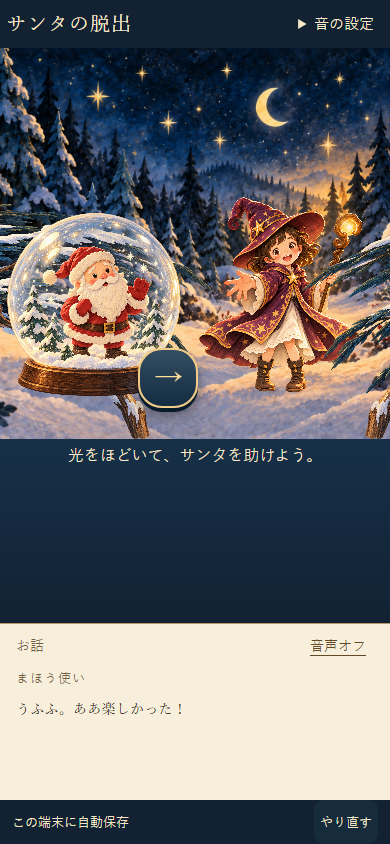
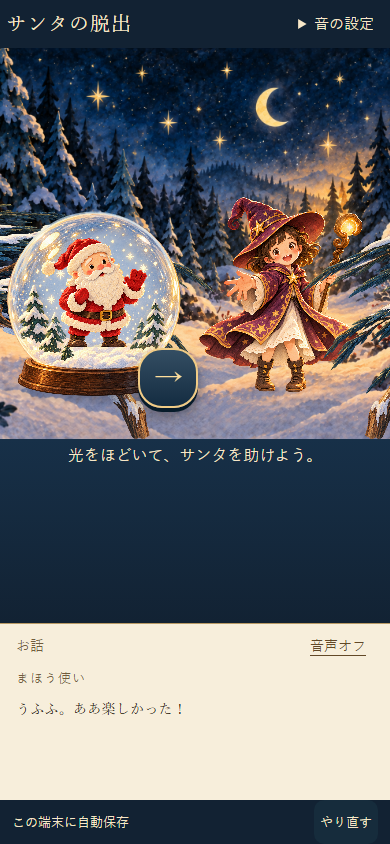
fix: reveal composed snow globe under the entry glow

Changed region(s): [[0.0, 0.2464, 0.4615, 0.4929]]

diff --git a/tests/browser/rescue-glow.spec.js b/tests/browser/rescue-glow.spec.js
@@ -7,26 +7,28 @@ import {rescueState,btn,saved,light} from './rescue-helpers.js';
 async function thirdResponse(page){
   const s=rescueState();s.phase='witchResponse';delete s.rescueMotion;s.history=s.history.filter(e=>e.phase!=='rescue');
   await setupPapers(page,s,{stage:'witch'});await expect(page.locator('canvas')).toHaveAttribute('data-ready','true');await page.waitForTimeout(470);
-  await page.evaluate(()=>{window.pulses=[];window.introStates=[];new MutationObserver(records=>{
+  await page.evaluate(()=>{window.pulses=[];window.introStates=[];window.revealStates=[];new MutationObserver(records=>{
     const stage=document.querySelector('.rescue-stage');if(stage){const intro=stage.dataset.intro,hidden=stage.querySelector('.rescue-handle').hidden;const last=window.introStates.at(-1);if(!last||last.intro!==intro||last.hidden!==hidden)window.introStates.push({intro,hidden});}
-    for(const r of records)if(r.attributeName==='data-glow-pulse'){const value=Number(r.target.dataset.glowPulse);window.pulses.push(value);if(value>.7&&!window.glowFrame)window.glowFrame=r.target.toDataURL();}
+    for(const r of records)if(r.attributeName==='data-glow-pulse'){const value=Number(r.target.dataset.glowPulse);window.pulses.push(value);if(r.target.dataset.globeSource==='edited-empty'){window.revealStates.push({pulse:value,intro:stage.dataset.intro,progress:Number(r.target.dataset.progress)});if(value>.7&&!window.glowFrame)window.glowFrame=r.target.toDataURL();}}
   }).observe(document.querySelector('#app'),{childList:true,subtree:true,attributes:true,attributeFilter:['data-glow-pulse','data-intro']});});
   await btn(page,'continue_witch').click();
 }
 async function samples(page){return page.locator('canvas').evaluate(c=>{const g=JSON.parse(c.dataset.globe),d=c.width/c.clientWidth,ctx=c.getContext('2d');return [[.13,.3],[.4,.94],[.4,.07]].map(([x,y])=>Array.from(ctx.getImageData(Math.round((g.x+g.w*x)*d),Math.round((g.y+g.h*y)*d),3,3).data));});}
 
-test('rescue glow: one bright pulse precedes the grip; edited glass/base remain during release and resume skips the introduction',async({page},testInfo)=>{
+test('rescue glow: bright pulse reveals empty globe plus Santa before the grip; zero/reverse/resume retain that composition',async({page},testInfo)=>{
   await page.setViewportSize({width:390,height:844});await thirdResponse(page);await expect.poll(()=>page.evaluate(()=>window.introStates)).toContainEqual({intro:'glowing',hidden:true});
-  await expect.poll(()=>page.evaluate(()=>Math.max(...window.pulses))).toBeGreaterThan(.7);const artifact=testInfo.outputPath('rescue-glow.png');await mkdir(dirname(artifact),{recursive:true});await writeFile(artifact,Buffer.from((await page.evaluate(()=>window.glowFrame)).split(',')[1],'base64'));
+  await expect.poll(()=>page.evaluate(()=>window.revealStates.some(x=>x.pulse>.7&&x.intro==='glowing'&&x.progress===0))).toBe(true);const artifact=testInfo.outputPath('rescue-glow.png');await mkdir(dirname(artifact),{recursive:true});await writeFile(artifact,Buffer.from((await page.evaluate(()=>window.glowFrame)).split(',')[1],'base64'));
   await expect(light(page)).toBeVisible();await expect(page.locator('.rescue-stage')).toHaveAttribute('data-intro','ready');expect(await page.evaluate(()=>window.introStates)).toEqual([{intro:'glowing',hidden:true},{intro:'ready',hidden:false}]);expect(Math.max(...await page.evaluate(()=>window.pulses))).toBeGreaterThan(.6);expect((await saved(page)).rescueMotion.progress).toBe(0);
-  await expect(page.locator('canvas')).toHaveAttribute('data-globe-source','original');await light(page).press('ArrowRight');await expect(page.locator('canvas')).toHaveAttribute('data-globe-source','edited-empty');const before=await samples(page);await page.reload();await btn(page,'resume').click();await expect(light(page)).toBeVisible();await expect(page.locator('canvas')).toHaveAttribute('data-ready','true');await expect(page.locator('.rescue-stage')).toHaveAttribute('data-intro','ready');await expect(page.locator('canvas')).toHaveAttribute('data-glow-pulse','0');await expect(page.locator('canvas')).toHaveAttribute('data-globe-source','edited-empty');
+  await expect(page.locator('canvas')).toHaveAttribute('data-globe-source','edited-empty');const resting=await page.locator('canvas').evaluate(c=>c.toDataURL());await page.screenshot({path:testInfo.outputPath('rescue-after-glow.png')});const before=await samples(page);
+  await light(page).press('ArrowRight');await expect(page.locator('canvas')).toHaveAttribute('data-globe-source','edited-empty');await light(page).press('Home');expect((await saved(page)).rescueMotion.progress).toBe(0);expect(await page.locator('canvas').evaluate(c=>c.toDataURL())).toBe(resting);
+  await page.reload();await btn(page,'resume').click();await expect(light(page)).toBeVisible();await expect(page.locator('canvas')).toHaveAttribute('data-ready','true');await expect(page.locator('.rescue-stage')).toHaveAttribute('data-intro','ready');await expect(page.locator('canvas')).toHaveAttribute('data-glow-pulse','0');await expect(page.locator('canvas')).toHaveAttribute('data-globe-source','edited-empty');expect(await page.locator('canvas').evaluate(c=>c.toDataURL())).toBe(resting);
   await light(page).press('End');await expect(page.locator('.rescue-stage')).toHaveAttribute('data-phase','complete');await expect(btn(page,'finish')).toHaveCount(0);const after=await samples(page);for(let i=0;i<before.length;i++)for(let j=0;j<before[i].length;j++)expect(Math.abs(before[i][j]-after[i][j])).toBeLessThanOrEqual(2);
 });
 test('rescue glow: reduced motion immediately reveals the grip, with no timed completion or pulse',async({page})=>{
-  await page.emulateMedia({reducedMotion:'reduce'});await thirdResponse(page);await expect(light(page)).toBeVisible();await expect(page.locator('.rescue-stage')).toHaveAttribute('data-intro','ready');expect((await page.evaluate(()=>window.pulses)).every(v=>v===0)).toBe(true);expect((await saved(page)).phase).toBe('rescue');expect((await saved(page)).rescueMotion.progress).toBe(0);
+  await page.emulateMedia({reducedMotion:'reduce'});await thirdResponse(page);await expect(light(page)).toBeVisible();await expect(page.locator('canvas')).toHaveAttribute('data-ready','true');await expect(page.locator('canvas')).toHaveAttribute('data-globe-source','edited-empty');await expect(page.locator('.rescue-stage')).toHaveAttribute('data-intro','ready');expect((await page.evaluate(()=>window.pulses)).every(v=>v===0)).toBe(true);expect((await saved(page)).phase).toBe('rescue');expect((await saved(page)).rescueMotion.progress).toBe(0);
 });
 for(const action of ['pagehide','reset'])test(`rescue glow: ${action} cancels the pulse; late artwork cannot replay it or advance the save`,async({page})=>{
   let release;const gate=new Promise(r=>release=r);await page.route('**/assets/rescue/*.png',async route=>{await gate;await route.continue();});await thirdResponse(page);await expect.poll(()=>page.locator('canvas').evaluate(c=>Number(c.dataset.glowPulse))).toBeGreaterThan(.1);
   if(action==='pagehide')await page.evaluate(()=>window.dispatchEvent(new Event('pagehide')));else{await btn(page,'reset').click();await page.locator('#confirm-reset').click();}release();await page.waitForTimeout(1000);
-  if(action==='reset'){await expect(btn(page,'start')).toBeVisible();expect((await saved(page)).phase).toBe('welcome');}else{await expect(page.locator('canvas')).toHaveAttribute('data-ready','true');await expect(page.locator('canvas')).toHaveAttribute('data-glow-pulse','0');await expect(light(page)).toBeVisible();expect((await saved(page)).rescueMotion.progress).toBe(0);}
+  if(action==='reset'){await expect(btn(page,'start')).toBeVisible();expect((await saved(page)).phase).toBe('welcome');}else{await expect(page.locator('canvas')).toHaveAttribute('data-ready','true');await expect(page.locator('canvas')).toHaveAttribute('data-globe-source','edited-empty');await expect(page.locator('canvas')).toHaveAttribute('data-glow-pulse','0');await expect(light(page)).toBeVisible();expect((await saved(page)).rescueMotion.progress).toBe(0);}
 });

diff --git a/prototype/rescue-stage.js b/prototype/rescue-stage.js
@@ -10,7 +10,7 @@ export function createRescueStage({getState,onProgress,intro=false}) {
   const listeners=new AbortController(),options={signal:listeners.signal},reduced=matchMedia('(prefers-reduced-motion: reduce)');let disposed=false,layout,drag=null,suppressUntil=0,introPending=intro&&!reduced.matches,introFrame,latest;
   const active=()=>!disposed&&!introPending&&getState().phase==='rescue'&&getState().rescueMotion?.released===false;
   const syncHandle=()=>{if(latest){handle.hidden=introPending||latest.reading||latest.view.rescueMotion?.released!==false;element.dataset.intro=introPending?'glowing':'ready';}};
-  function finishIntro(){cancelAnimationFrame(introFrame);introPending=false;art.setGlow(0);syncHandle();}
+  function finishIntro(){cancelAnimationFrame(introFrame);introPending=false;art.setGlow(0,{reveal:true});syncHandle();}
   const progress=()=>getState().rescueMotion?.progress||0;
   function set(value){if(active())onProgress(clamp(value));}
   function finish(){if(!drag)return;const old=drag;drag=null;if(old.moved)suppressUntil=performance.now()+350;if(handle.hasPointerCapture(old.id))handle.releasePointerCapture(old.id);element.classList.remove('rescue-dragging');}
@@ -31,9 +31,9 @@ export function createRescueStage({getState,onProgress,intro=false}) {
     let value;if(e.key==='ArrowLeft')value=progress()-.05;if(e.key==='ArrowRight')value=progress()+.05;if(e.key==='Home')value=0;if(e.key==='End')value=1;
     if(value!==undefined){e.preventDefault();finish();set(value);}
   },options);
-  const art=createRescueArt(find('canvas'),value=>{if(drag&&(value.width!==drag.width||value.height!==drag.height))finish();layout=value;handle.style.left=`${value.handle.x}px`;handle.style.top=`${value.handle.y}px`;},()=>{find('.rescue-art-error').hidden=false;});
+  const art=createRescueArt(find('canvas'),value=>{if(drag&&(value.width!==drag.width||value.height!==drag.height))finish();layout=value;handle.style.left=`${value.handle.x}px`;handle.style.top=`${value.handle.y}px`;},()=>{find('.rescue-art-error').hidden=false;},{beforeReveal:introPending});
   // One short presentation pulse on entry only, independent of voice/art fetches.
-  if(introPending){let started;const tick=time=>{if(disposed||!introPending)return;started??=time;const t=Math.min(1,(time-started)/1100);art.setGlow(Math.sin(Math.PI*t)**2);if(t===1)finishIntro();else introFrame=requestAnimationFrame(tick);};introFrame=requestAnimationFrame(tick);}
+  if(introPending){let started;const tick=time=>{if(disposed||!introPending)return;started??=time;const t=Math.min(1,(time-started)/1100);art.setGlow(Math.sin(Math.PI*t)**2,{reveal:t>=.5});if(t===1)finishIntro();else introFrame=requestAnimationFrame(tick);};introFrame=requestAnimationFrame(tick);}
   return {element,ready:art.ready,setStatus:status=>captions.setStatus(status),
     update(view,{settings,dialogue,status,saved,reading=false,navigation=''}) {
       const complete=view.phase==='complete',released=view.rescueMotion?.released!==false;

diff --git a/prototype/rescue-art.js b/prototype/rescue-art.js
@@ -6,7 +6,10 @@ import { smooth, clamp } from './witch-math.js';
 import { makeLayout, rescue } from './rescue-math.js';
 let rescuePromise;
 const loadRescueArt=()=>rescuePromise ||= Promise.all(['empty-globe-original-v2','santa'].map(name=>loadImage(new URL('./assets/rescue/'+name+'.png',import.meta.url).href)));
-export function createRescueArt(canvas,onLayout,onError) {
+// Prepare the composition while questions are shown. The rescue view reports
+// failures; preloading never blocks dialogue, answers or navigation.
+export const preloadRescueArt=()=>loadRescueArt().catch(()=>{});
+export function createRescueArt(canvas,onLayout,onError,{beforeReveal=false}={}) {
   const ctx=canvas.getContext('2d',{alpha:false}),plate=document.createElement('canvas'),brush=plate.getContext('2d');
   const assets={};if(getForestArt())[assets.forest,assets.original]=getForestArt();if(getWitchArt())[assets.branch,assets.wizard]=getWitchArt();let disposed=false,view,layout,pulse=0;
 function groundShadow(x, y, w, opacity) {
@@ -116,7 +119,9 @@ function introGlow() {
     layout=makeLayout(width,height,{globe:assets.original?assets.original.width/assets.original.height:.946277097078228,santa:assets.santa?assets.santa.width/assets.santa.height:.9441489361702128,wizard:assets.wizard?assets.wizard.width/assets.wizard.height:.8373134328358209});
     const progress=view?.rescueMotion?.progress??1,state=rescue(progress,layout),b=layout.globe,c=layout.circle;
     paintForestStage(ctx,layout,assets);
-    const originalOnly=progress===0 && assets.original;
+    // Change the illustration under the bright entry glow, before the grip is
+    // shown. Dragging back to zero must keep the same empty globe + Santa.
+    const originalOnly=progress===0 && assets.original && (beforeReveal||!assets.globe||!assets.santa);
     if(originalOnly)ctx.drawImage(assets.original,b.x,b.y,b.w,b.h);
     else if(assets.globe)globe(state);
     else if(!originalOnly){ctx.strokeStyle='#d5c39b';ctx.lineWidth=3;ctx.beginPath();ctx.ellipse(c.cx,c.cy,c.rx,c.ry,0,0,Math.PI*2);ctx.stroke();}
@@ -140,5 +145,5 @@ function introGlow() {
     if(disposed)return;
     canvas.dataset.ready=results.every(r=>r.status==='fulfilled')?'true':'error';if(canvas.dataset.ready==='error')onError();paint();
   });
-  return {ready,update(value){view=value;paint();},setGlow(value){pulse=value;paint();},destroy(){disposed=true;observer.disconnect();}};
+  return {ready,update(value){view=value;paint();},setGlow(value,{reveal=false}={}){if(reveal)beforeReveal=false;pulse=value;paint();},destroy(){disposed=true;observer.disconnect();}};
 }

diff --git a/prototype/full-app.js b/prototype/full-app.js
@@ -14,6 +14,7 @@ import { createPaperStage } from './paper-stage.js';
 import { arrangedWord } from './paper-layout.js';
 import { createWitchStage } from './witch-stage.js';
 import { createRescueStage } from './rescue-stage.js';
+import { preloadRescueArt } from './rescue-art.js';
 import { rescueSceneFor,rescueTimeline,RescueNarration } from './rescue-presentation.js';
 
 const app = document.querySelector('#app');
@@ -158,6 +159,7 @@ function render(focus = false, scroll = false, rescueIntro = false) {
     return;
   }
   if (illustratedWitch) {
+    if(!reading&&['witchQuestion','witchResponse'].includes(view.phase))preloadRescueArt();
     if (!witchStage) {
       witchStage = createWitchStage({
         getState:()=>state,

diff --git a/docs/PR-E-RESCUE.md b/docs/PR-E-RESCUE.md
@@ -8,7 +8,7 @@
 
 三問目の返答は明示的な「サンタのもとへ」まで保持。新しいrescueへ入ると先頭の「うふふ。ああ楽しかった！」を表示・再生。球全体が約1.1秒で一度白金色に強く光り、金色の光輪ときらめきが周囲へ広がった後に、光のつまみを提示します。杖からの細い線は削除。演出は最初の救出への移動時だけで、保存再開・読み返しでは繰り返さず、低減モーションでは省略。演出の時間で救出や回答は進めません。右へ引いた指と同じ距離だけつまみが右へ移り、開口・サンタの移動、倍率と局所変形を共通の進捗へ接続。途中は停止・逆方向・中断でき、タップ / Enter / Spaceで一段階、左右キーで調整、Homeで開始位置、Endで完了。Escapeはその場でドラッグを中断。完了値1で解放とcomplete保存を同時に確定し、逆操作で回答や取得紙を巻き戻しません。スライダー・百分率・自由こすり・追加の正解条件・音声入力・家族儀式はありません。
 
-森・球・まほう使い・開いた枝のカメラはDと共通。進捗0ではこれまでと同じ人物入りの球をそのまま描き、動き始めたら、元の球からサンタを消すためにImageで編集した空の球と単一の不透明サンタを使います。サンタ周囲に別の青い空を部分合成するマスクは削除。人物入りの球と独立サンタを重ねません。元画像は変更せず、編集画像を別ファイルとして保存しています。ガラス・木・雪・台座の構成を保っていますが、編集生成による画素や色の差があり、元画像との完全一致は主張しません。既存の球のサンタと独立素材も別の生成画像で細部の完全一致は保証しません。球の位置・倍率と開始/途中/解放後・発光中の絵を実際にレビュー済みです。足と服の変形は試作由来で、自然な歩行の完成を主張しません。
+森・球・まほう使い・開いた枝のカメラはDと共通。発光前はこれまでの人物入りの球を描き、発光のピークで、元の球からサンタを消すためにImageで編集した空の球と単一の不透明サンタへ切り替えます。つまみが現れた時点では進捗0でも合成済みです。引き始めてから背景を変えず、Home・逆操作で0へ戻しても同じ合成を保ちます。保存再開・低減モーションでは最初から合成を使います。切替は表示上のフラグだけで、新しい保存データは追加しません。質問中に同じ救出素材を先読みし、画像待ちは発話・回答・進行を止めません。読込失敗では従来の継続可能な描画へ戻ります。サンタ周囲に別の青い空を部分合成するマスクは削除。人物入りの球と独立サンタを重ねません。元画像は変更せず、編集画像を別ファイルとして保存しています。ガラス・木・雪・台座の構成を保っていますが、編集生成による画素や色の差があり、元画像との完全一致は主張しません。既存の球のサンタと独立素材も別の生成画像で細部の完全一致は保証しません。足と服の変形は試作由来で、自然な歩行の完成を主張しません。
 
 ## 音声・結末
 
@@ -34,9 +34,9 @@ rescue-filesの許可リストを開発サーバー、Pagesビルド、ローカ
 
 ## 検査・配信結果
 
-通常検査は74件中72成功、非公開原本照合だけ2スキップ。設計の2592経路・353838確認、既存音声、配信許可リスト、Pagesビルド、ローカル配信と差分の検査を実施。今回の編集ではローカルChromiumの救出/発光14件が標準の1 workerで一度に成功。部分保存・逆操作・中断、旧保存・読み返し、球の初回発光と中断・低減モーション、編集した球の使用と解放中のガラス/台座の保持を確認しました。箱・紙・Dの枝音声の回帰と実Web Audioの順序/取消を含む最新headの全100件Chromium検査、GitHub verify / browser、Cloudflare Pagesと実配信比較の最終結果・URLはPR本文に記録します。
+通常検査は74件中72成功、非公開原本照合だけ2スキップ。設計の2592経路・353838確認、既存音声、配信許可リスト、Pagesビルド、ローカル配信と差分の検査を実施。今回の切替修正ではローカルChromiumの発光/合成4件と救出/即時解放11件が標準の1 workerで成功。発光のピークで進捗0のまま合成へ切替、つまみ未操作時の合成、Homeで0へ戻した絵・保存再開時の絵の画素一致、初回発光の中断と低減モーション、部分保存・逆操作・旧保存・読み返しを確認しました。箱・紙・Dの枝音声の回帰と実Web Audioの順序/取消を含む最新headの全100件Chromium検査、GitHub verify / browser、Cloudflare Pagesと実配信比較の最終結果・URLはPR本文に記録します。
 
-320×568、390×844、568×320、844×390、768×1024、1024×768、1280×720で操作点60px、主要ボタン44px以上、字幕の内部スクロール・フォーカス・横はみ出し・低減モーションと人物の幾何を確認。[初回の発光（描画区画）](pr-e/rescue-glow.png)、[開始](pr-e/rescue-390x844-0.png)、[途中](pr-e/rescue-390x844-0.5.png)、[解放後](pr-e/rescue-390x844-1.png)、[横長の解放後](pr-e/rescue-1280x720-1.png)を保存しました。タッチはChromiumのエミュレーションです。
+320×568、390×844、568×320、844×390、768×1024、1024×768、1280×720で操作点60px、主要ボタン44px以上、字幕の内部スクロール・フォーカス・横はみ出し・低減モーションと人物の幾何を確認。[初回の発光（合成へ切替後の描画区画）](pr-e/rescue-glow.png)、[発光後・つまみ未操作](pr-e/rescue-390x844-0.png)、[途中](pr-e/rescue-390x844-0.5.png)、[解放後](pr-e/rescue-390x844-1.png)、[横長の解放後](pr-e/rescue-1280x720-1.png)を保存しました。タッチはChromiumのエミュレーションです。
 
 ## 残る確認
 
